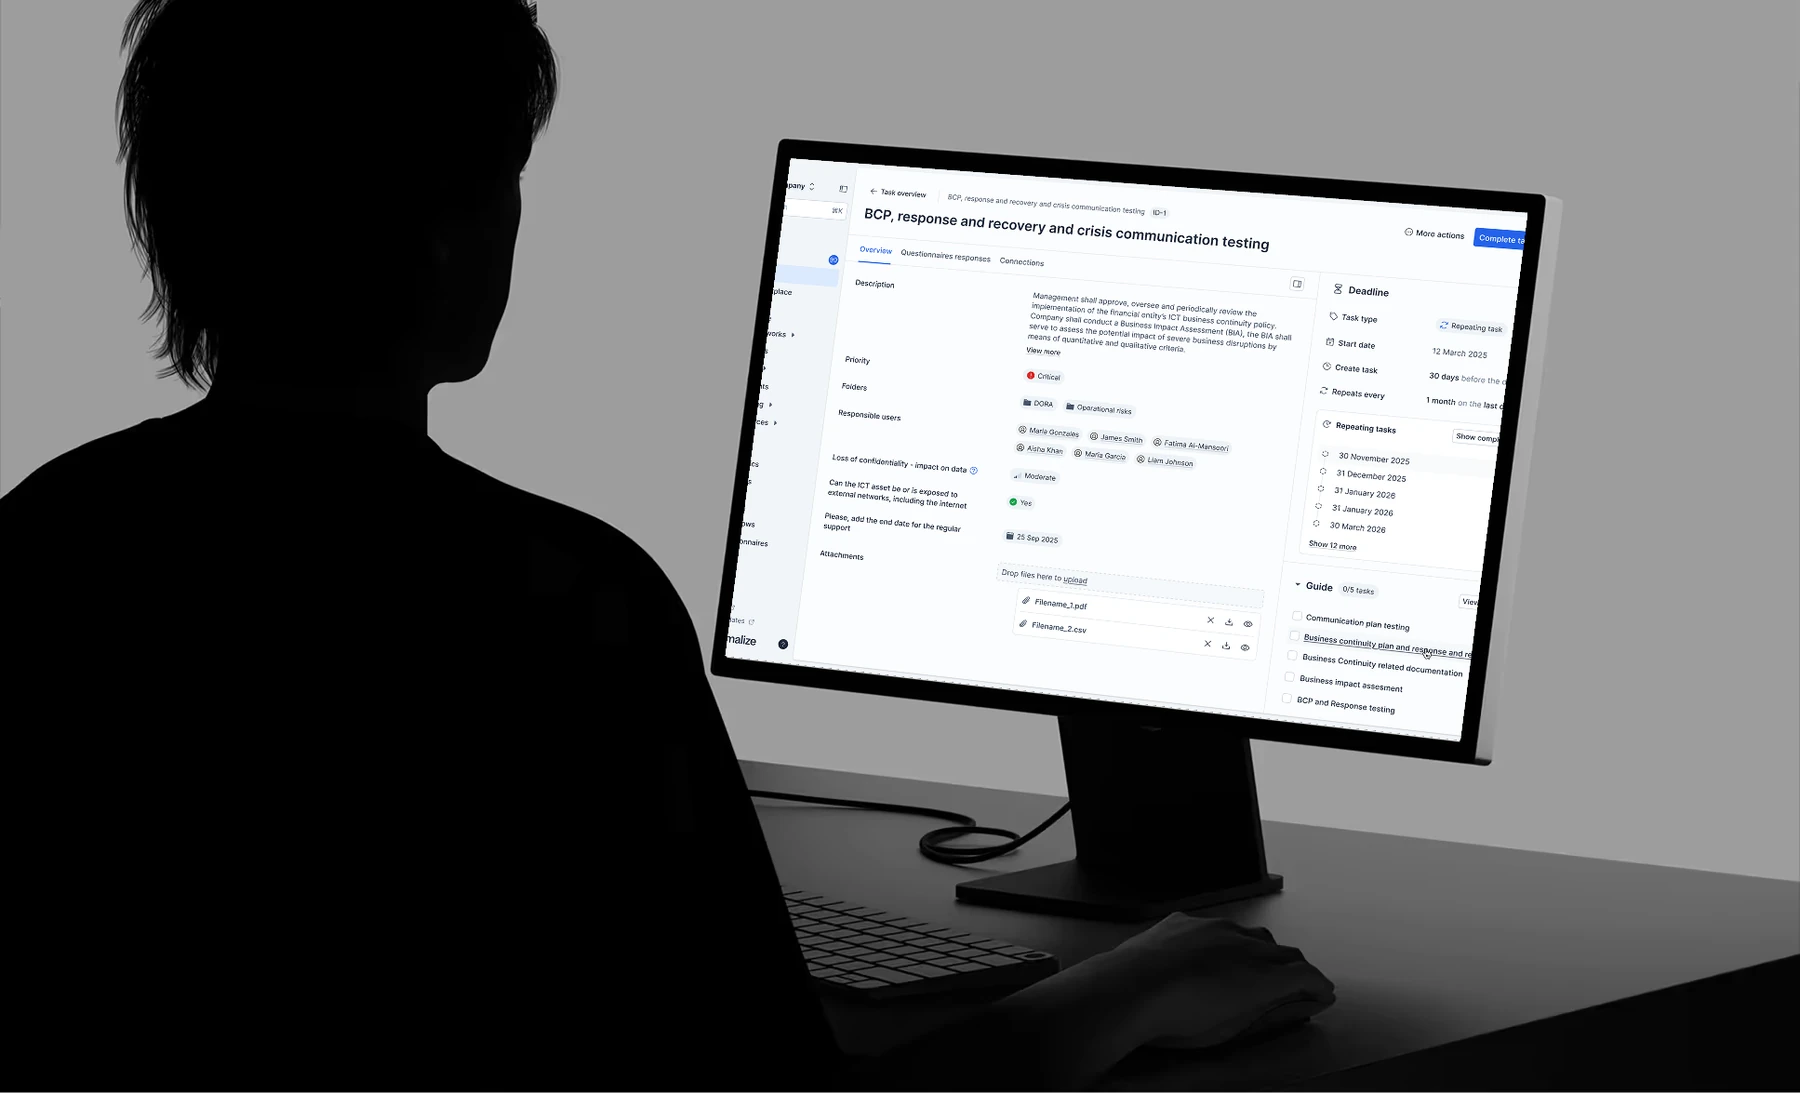
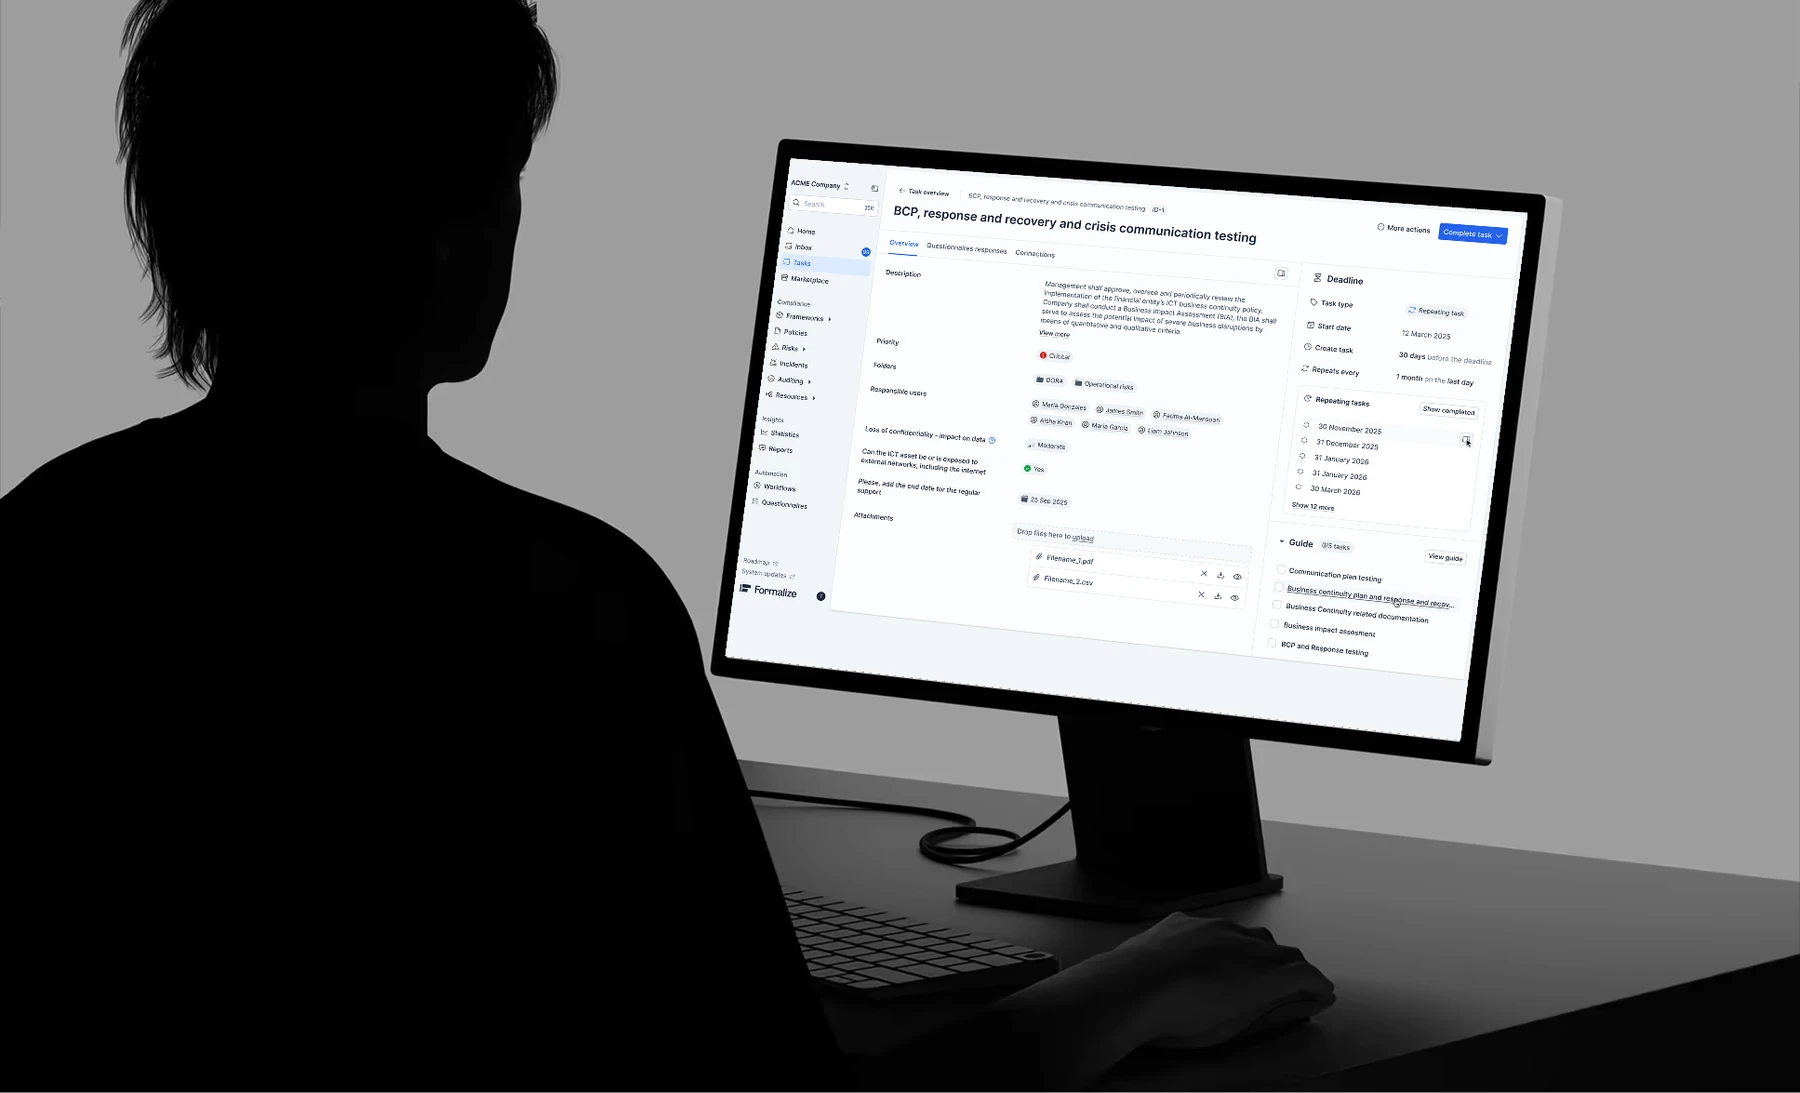
v2: the angled Formalize screen keeps the whole plate
plate-3 goes into a 1.431 screen and is 1.600, so cover was trimming 81px off
each side — the entire left nav and part of the right of the UI. The side
margins of a dashboard are its layout, so the canvas grows downward instead.
That costs nothing here: every plate's last row is a single flat colour across
its full width, so the extension is invisible, and the code checks that before
relying on it rather than assuming it.

The script now writes the webp directly at 1800px instead of a PNG for a
separate conversion step, and takes output names as arguments so one scene can
be regenerated without touching the Maersk shots.

Verified by mapping known points through the transform: the darkest nav feature
at plate x=90, inside the 81px the old crop removed, is now present in the
composite, as is the far-right content at x=1474.

Changed region(s): [[0.4044, 0.1555, 0.84, 0.6532], [0.7778, 0.1866, 0.84, 0.2489], [0.4044, 0.4977, 0.4356, 0.591]]

diff --git a/tools/mockup-composite.py b/tools/mockup-composite.py
@@ -96,7 +96,10 @@ def grow(quad, px):
         out.append((x + dx/d*px, y + dy/d*px))
     return out
 
+import sys
+ONLY = sys.argv[1:]                      # regenerate a subset by output name
 for mock, srcdir, shot, out in JOBS:
+    if ONLY and out not in ONLY: continue
     quad = QUADS[mock]
     base = Image.open(os.path.join(SP, mock)).convert('RGBA')
     W, H = base.size
@@ -114,9 +117,23 @@ for mock, srcdir, shot, out in JOBS:
     # the bottom of a dashboard reads as a shorter viewport; stretched type reads
     # as a mistake.
     sw, sh = src.size
-    if sw / sh > target:                 # too wide: trim the sides evenly
-        nw = int(round(sh * target)); x0 = (sw - nw)//2
-        src = src.crop((x0, 0, x0+nw, sh))
+    if sw / sh > target:
+        # Too wide for this screen. Trimming the sides was taking 81px off each
+        # of plate-3 — the whole left nav and part of the right of the UI — and
+        # the side margins of a dashboard are its layout. Grow the canvas
+        # downward instead, which costs nothing when the plate's last row is one
+        # flat colour across its full width (it is, for every plate here).
+        nh = int(round(sw / target))
+        last = src.crop((0, sh-1, sw, sh)).convert('RGB')
+        if len(set(last.getdata())) == 1:
+            pad = Image.new('RGBA', (sw, nh))
+            pad.paste(src, (0, 0)); pad.paste(src.crop((0, sh-1, sw, sh)).resize((sw, nh-sh)), (0, sh))
+            src = pad
+        else:
+            nw = int(round(sh * target)); x0 = (sw - nw)//2
+            print(f'  ! {out}: last row is not flat, falling back to trimming '
+                  f'{x0}px off each side')
+            src = src.crop((x0, 0, x0+nw, sh))
     else:                                # too tall: trim from the bottom only
         nh = int(round(sw / target))
         src = src.crop((0, 0, sw, nh))
@@ -133,7 +150,10 @@ for mock, srcdir, shot, out in JOBS:
     mask = mask.resize((W, H), Image.LANCZOS)
 
     base.paste(warped, (0, 0), mask)
-    base.convert('RGB').save(os.path.join(SP, out + '.png'))
+    dest = {'maersk': 'maersk', 'formalize/plates': 'formalize'}[srcdir]
+    w2 = 1800
+    base.convert('RGB').resize((w2, round(w2*H/W)), Image.LANCZOS).save(
+        os.path.join(REPO, 'public/images', dest, out + '.webp'), 'WEBP', quality=90, method=6)
 
 # ── Phone mockups: how the screen quad is found ───────────────────────────
 # The bezel is black against a mid-grey room, so the largest bright connected
